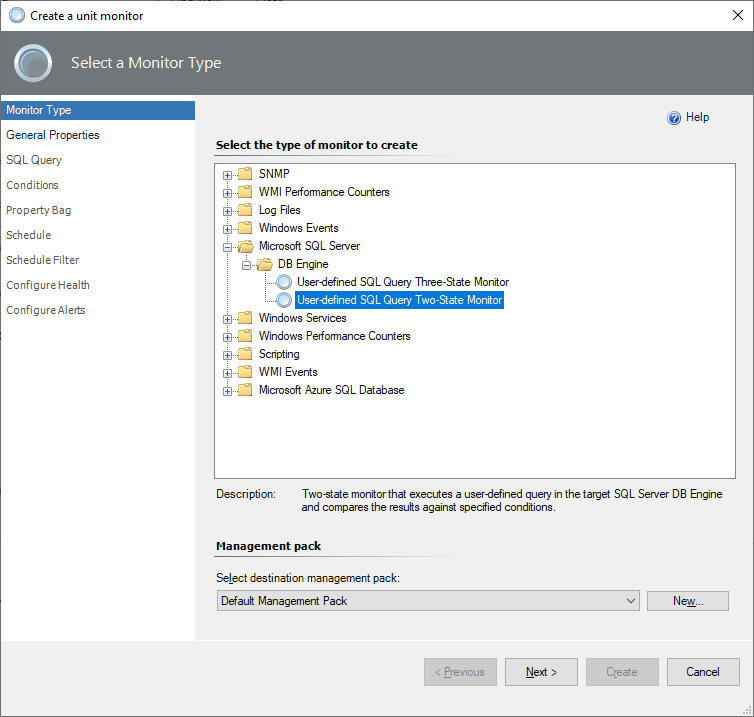
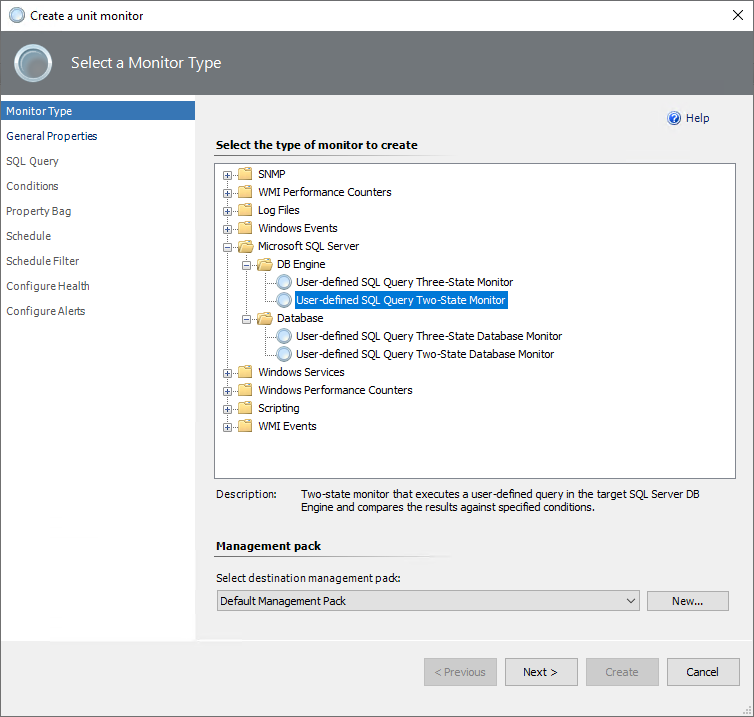
New article in the SQL Server custom monitoring section about database-targeted monitors

diff --git a/SystemCenterDocs/scom/sql-server-management-pack-custom-database-monitor.md b/SystemCenterDocs/scom/sql-server-management-pack-custom-database-monitor.md
@@ -1,0 +1,308 @@
+---
+title: Custom database query-based monitors in System Center Management Pack for SQL Server
+description: This article explains how to configure a custom database query monitor in System Center Management Pack for SQL Server.
+manager: evansma
+author: epomortseva
+ms.author: v-fkornilov
+/ms.date: 07/12/2024
+ms.topic: article
+ms.service: system-center
+ms.subservice: operations-manager
+---
+
+# Custom query-based database monitors
+
+If the set of default monitors in System Center Management Pack for SQL Server isn't enough to cover your workflows, you can create a monitor that targets the SQL Server Database for Windows and Linux platforms.
+
+During the monitor creation process, you use *conditions* to define how the monitor will determine the state after it receives query results. The approach for creating query-based monitors is similar to the approach for creating SQL Server policies. If the query result matches the condition, the monitor state is healthy. If the result doesn't match the condition, the monitor is unhealthy and shows an alert.
+
+There are two types of unit monitors based on custom queries that you can create for the SQL Server Database: two-state monitors and three-state monitors. Depending on the sql query, two options are available: cookdown and database context.
+
+> [!NOTE]
+> Since the latest preview version of System Center Management Pack for SQL Server 7.1.0.0, the management pack for the custom monitoring feature is on a separate package installer: *SQLServerMP.CustomMonitoring.msi*. Be sure to import the management pack file *Microsoft.SQLServer.Core.CustomMonitoring.mpb* manually. The import process with the update option is not supported.
+
+## Custom cookdown query-based monitors targeting the SQL Server Database
+
+The Cookdown type allows you to retrieve data from multiple databases using a single query.
+
+### Two-state custom database monitor based on cookdown query
+
+To create a two-state custom query-based monitor, perform the following steps:
+
+1. In the System Center Operations Manager console, go to **Authoring** > **Management Pack Objects**. Right-click **Monitors**, select **Create a Monitor**, and then select **Unit Monitor**.
+
+    ![Screenshot of selections for creating a two-state unit monitor.](./media/sql-server-management-pack/sql-creating-unit-monitor.png)
+
+2. At the **Monitor Type** step, select **Microsoft SQL Server** > **Database** > **User-defined SQL Query Two-State Database Monitor**.
+
+3. From the **Select destination management pack** dropdown list, select a management pack that you want to use, or select **New** to create a new one. Then select **Next**.
+
+    ![Screenshot of selecting a monitor type.](./media/sql-server-custom-monitoring-management-pack/sql-selecting-database-monitor-type.png)
+
+4. At the **General Properties** step, enter the monitor name and an optional description. Make your selections for **Monitor target** and **Parent monitor**. If you want the monitor to be enabled by default, select the **Monitor is enabled** checkbox. Then select **Next**.
+
+    ![Screenshot of selecting a monitor name and description.](./media/sql-server-custom-monitoring-management-pack/sql-custom-database-monitor-name-and-description-.png)
+
+5. At the **Monitor Kind** select **Cookdown** and enter **Database name selector** using the column number or column name.
+
+    The database name selector is a selector that parses the database name from the result set of a sql query. Setting the selector helps to identify the database from the result set to retrieve the data.
+
+   ![Screenshot of selecting a database monitor type](./media/sql-server-custom-monitoring-management-pack/sql-custom-database-monitor-cookdown.png)
+
+6. At the **SQL Query** step, enter the database name, query text, and timeouts (in seconds). The default database is **master**.
+
+    The Database name field specifies the database that will be used to execute the SQL query from this step.
+
+    The screenshot shows an example of using cookdown with a SQL query to [msdb.backupset](./sql/relational-databases/system-tables/backupset-transact-sql). This table contains information about all database backups on the server.
+
+    ![Screenshot that shows a target database name and SQL query.](./media/sql-server-custom-monitoring-management-pack/sql-custom-database-monitor-sql-query-cookdown.png)
+
+7. At the **Conditions** step, add one or more conditions to verify query results.
+
+   Condition supports two modes of evaluation:
+
+   - **ANY** - if any of the conditions are violated, the monitor switches to an unhealthy state.
+  
+   - **ALL** - if all the conditions are violated, the monitor switches to an unhealthy state.
+
+    To add a new condition, select **Add**, and then select **Scalar Value**.
+
+      Checks the scalar value in the specified cell of the result set. Only equal comparison is available at this moment. If you need complex logic, you can cover that with the query.
+
+    ![Screenshot that shows adding new conditions.](./media/sql-server-custom-monitoring-management-pack/sql-custom-database-monitor-cookdown-condition.png)
+
+    When you add a condition, you must specify **Friendly name** and **Configuration** details for a specific check to be performed.
+
+    You can use a scalar value with two options:
+
+    - **Is NULL** is a true\false verification option. If the value is false, the monitor is unhealthy. Otherwise, the monitor is healthy.
+    - Use **Equal to** to insert the specific value. If the result of the query matches the number value, the monitor is healthy. Otherwise, the monitor is unhealthy.
+
+    ![Screenshot that shows scalar values.](./media/sql-server-custom-monitoring-management-pack/sql-custom-database-cookdown-editing-scalar-condition.png)
+
+      > [!NOTE]
+      > The **Equal to** option is culture-independent (invariant) for a single value only and can't parse a range of values. Example of use: *3.14*, *2023-05-25*, or an arbitrary text.
+
+    You can make more than one condition. If you want to add, edit, or remove a condition, select the condition and use the appropriate button.
+
+    ![Screenshot that shows filled condition.](./media/sql-server-custom-monitoring-management-pack/sql-custom-database-monitor-cookdown-filled-condition.png)
+
+    After you finish setting all the required conditions, select **Next**.
+
+8. At the **Property Bag** step, add one or more conditions to parse the sql query result into a property bag to add properties to the alert context. This step can be skipped if the default alert context is sufficient for display.
+
+    ![Screenshot of configuring property bag.](./media/sql-server-custom-monitoring-management-pack/sql-custom-database-monitor-property-bag.png)
+
+    To add a new condition, select **Add**, and then select **Scalar Value**. When you add a condition, you must specify **Friendly name** and **Configuration** details for a specific check to be performed.
+
+    ![Screenshot of property bag condition.](./media/sql-server-custom-monitoring-management-pack/sql-custom-database-cookdown-monitor-property-bag-condition.png)
+
+    After you finish setting all the required conditions, select **Next**.
+
+9. At the **Schedule** step, configure a query execution schedule and synchronization time.
+
+    ![Screenshot of configuring a schedule.](./media/sql-server-custom-monitoring-management-pack/sql-custom-database-monitor-schedule.png)
+
+10. At the **Schedule Filter** step, select the schedule filtering mode with the following options:
+
+    - **Always process data**
+
+      This is the regular mode, in which the monitor processes the data all the time. This mode doesn't support the time range schedule and excludes day options.
+
+    - **Only process data during the specified time**
+  
+      In this mode, you schedule monitoring by selecting a date and time range during the week.
+
+    - **Process data except during the specified time**
+
+      In this mode, you exclude days so that the monitor doesn't track the specified time periods. You can exclude it temporarily by using the **Exclude days** button. You can exclude it permanently by using the time range schedule.
+
+    ![Screenshot of schedule filter creation in custom monitors.](./media/sql-server-custom-monitoring-management-pack/sql-custom-database-monitor-schedule-filter.png)
+
+    To specify the time range for both **Only process data during the specified time** and **Process data except during the specified time** modes, use the **Add** button and select the days and times.
+
+    ![Screenshot of selecting a time range for a monitor.](./media/sql-server-custom-monitoring-management-pack/sql-custom-database-monitor-select-time-range-in-filter.png)
+
+    To exclude some days from the schedule, use the **Exclude days** button and choose the date range by using the **Start** and **End** fields. Complete the description, if applicable.
+
+    ![Screenshot of the button for excluding days in schedule filter creation.](./media/sql-server-management-pack/exclude-days-in-filter.png)
+
+    You can use both options to exclude time ranges and days at the same time.
+
+    ![Screenshot that shows using both schedule filtering options.](./media/sql-server-custom-monitoring-management-pack/sql-custom-database-monitor-schedule-filter-with-filled-options.png)
+
+11. At the **Configure Health** step, select the health state that the monitor should generate. Change the **Operational State** information if needed.
+
+    ![Screenshot of configuring health.](./media/sql-server-custom-monitoring-management-pack/sql-custom-database-monitor-configure-health.png)  
+
+12. At the **Configure Alerts** step, enable the generating of alerts and edit the **Alert properties** area if needed.
+
+    If you need to activate alerts for the monitor, select the **Generate alerts for this monitor** checkbox, and set up an alert name and description to be shown when conditions fail. Change priority and severity, and resolve the alert mode.
+
+    Use the `$Data/Context/Property[@Name=’Message’]$` placeholder to show the list of failed conditions in the alert description.
+
+    When you're finished configuring alert properties, select **Create**.
+
+    ![Screenshot of editing alerts.](./media/sql-server-custom-monitoring-management-pack/sql-custom-database-monitor-editing-alerts.png)
+
+> [!TIP]
+> By default, a custom query-based monitor works for all SQL Server databases. To avoid alert storming you need to override the monitor target only to a specific instance of the SQL Server. To do that, in the monitor's override properties set the **Enabled = False** for the **MSSQL on Windows: Database class**, and set the **Enabled = True** for the **specific SQL Server Database** object.
+
+## Custom database context query-based monitors targeting the SQL Server Database
+
+The database context monitor type will execute the specified query on all databases in the target manner. To exclude a specific database from this monitor, use overrides after creation.
+
+This monitor type can increase performance.
+
+### Two-state custom database monitor based on database context query
+
+To create a two-state custom query-based monitor, perform the following steps:
+
+1. In the System Center Operations Manager console, go to **Authoring** > **Management Pack Objects**. Right-click **Monitors**, select **Create a Monitor**, and then select **Unit Monitor**.
+
+    ![Screenshot of selections for creating a two-state unit monitor.](./media/sql-server-management-pack/sql-creating-unit-monitor.png)
+
+2. At the **Monitor Type** step, select **Microsoft SQL Server** > **Database** > **User-defined SQL Query Two-State DatabaseMonitor**.
+
+3. From the **Select destination management pack** dropdown list, select a management pack that you want to use, or select **New** to create a new one. Then select **Next**.
+
+    ![Screenshot of selecting a monitor type.](./media/sql-server-custom-monitoring-management-pack/sql-selecting-database-monitor-type.png)
+
+4. At the **General Properties** step, enter the monitor name and an optional description. Make your selections for **Monitor target** and **Parent monitor**. If you want the monitor to be enabled by default, select the **Monitor is enabled** checkbox. Then select **Next**.
+
+    ![Screenshot of selecting a monitor name and description.](./media/sql-server-custom-monitoring-management-pack/sql-custom-database-monitor-name-and-description-.png)
+
+5. At the **Monitor Kind** select **Database context**.
+
+    The database context monitor type will perform the sql query to all databases in turn, so the database name selector can be omitted.
+
+   ![Screenshot of selecting a database monitor type](./media/sql-server-custom-monitoring-management-pack/sql-custom-database-monitor-context.png)
+
+6. At the **SQL Query** step, enter query text and timeouts (in seconds). The default database is **master**.
+
+    The database context will be executed on all databases, so the field for specifying only one database to query is locked.
+
+    ![Screenshot that shows a target database name and SQL query.](./media/sql-server-custom-monitoring-management-pack/sql-custom-database-monitor-context-sql-query.png)
+
+    The screenshot shows an example of using database context with a SQL query to [sys.database_files](./sql/relational-databases/system-catalog-views/sys-database-files-transact-sql). This table exists in each database, so the database context monitor type will connect to each database and retrieve data in a targeted manner.
+
+7. At the **Conditions** step, add one or more conditions to verify query results.
+
+   Condition supports two modes of evaluation:
+
+   - **ANY** - if any of the conditions are violated, the monitor switches to an unhealthy state.
+  
+   - **ALL** - if all the conditions are violated, the monitor switches to an unhealthy state.
+
+    To add a new condition, select **Add**, and then select one of the available conditions:
+
+    - **Empty Result Set**
+
+      Checks if the specified result set that the query returned is empty.
+
+    - **Not Empty Result Set**
+
+      Checks if the specified result set that the query returned isn't empty.
+
+    - **Scalar Value**
+
+      Checks the scalar value in the specified cell of the result set. Only equal comparison is available at this moment. If you need complex logic, you can cover that with the query.
+
+    ![Screenshot that shows adding new conditions.](./media/sql-server-custom-monitoring-management-pack/sql-custom-database-monitor-context-conditions.png)
+
+    When you add a condition, you must specify **Friendly name** and **Configuration** details for a specific check to be performed.
+
+    You can use a scalar value with two options:
+
+    - **Is NULL** is a true\false verification option. If the value is false, the monitor is unhealthy. Otherwise, the monitor is healthy.
+    - Use **Equal to** to insert the specific value. If the result of the query matches the number value, the monitor is healthy. Otherwise, the monitor is unhealthy.
+
+    ![Screenshot that shows scalar values.](./media/sql-server-custom-monitoring-management-pack/sql-custom-database-context-editing-scalar-condition.png)
+
+      > [!NOTE]
+      > The **Equal to** option is culture-independent (invariant) for a single value only and can't parse a range of values. Example of use: *3.14*, *2023-05-25*, or an arbitrary text.
+
+    You can make more than one condition. If you want to add, edit, or remove a condition, select the condition and use the appropriate button.
+
+    ![Screenshot that shows multiple conditions.](./media/sql-server-custom-monitoring-management-pack/sql-custom-database-monitor-context-multiple-conditions.png)
+
+    After you finish setting all the required conditions, select **Next**.
+
+8. At the **Property Bag** step, add one or more conditions to parse the sql query result into a property bag to add properties to the alert context. This step can be skipped if the default alert context is sufficient for display.
+
+    ![Screenshot of configuring property bag.](./media/sql-server-custom-monitoring-management-pack/sql-custom-database-monitor-property-bag.png)
+
+    To add a new condition, select **Add**, and then select **Scalar Value**. When you add a condition, you must specify **Friendly name** and **Configuration** details for a specific check to be performed.
+
+    ![Screenshot of property bag condition.](./media/sql-server-custom-monitoring-management-pack/sql-custom-database-monitor-property-bag-condition-database-context.png)
+
+    You can make more than one condition for property bag. If you want to add, edit, or remove a condition, select the condition and use the appropriate button.
+
+    ![Screenshot of multiple property bag conditions](./media/sql-server-custom-monitoring-management-pack/sql-custom-database-monitor-context-multiple-property-bag.png)
+
+    After you finish setting all the required conditions, select **Next**.
+
+9. At the **Schedule** step, configure a query execution schedule and synchronization time.
+
+    ![Screenshot of configuring a schedule.](./media/sql-server-custom-monitoring-management-pack/sql-custom-database-monitor-schedule.png)
+
+10. At the **Schedule Filter** step, select the schedule filtering mode with the following options:
+
+    - **Always process data**
+
+      This is the regular mode, in which the monitor processes the data all the time. This mode doesn't support the time range schedule and excludes day options.
+
+    - **Only process data during the specified time**
+  
+      In this mode, you schedule monitoring by selecting a date and time range during the week.
+
+    - **Process data except during the specified time**
+
+      In this mode, you exclude days so that the monitor doesn't track the specified time periods. You can exclude it temporarily by using the **Exclude days** button. You can exclude it permanently by using the time range schedule.
+
+   ![Screenshot of schedule filter creation in custom monitors.](./media/sql-server-custom-monitoring-management-pack/sql-custom-database-monitor-schedule-filter.png)
+
+   To specify the time range for both **Only process data during the specified time** and **Process data except during the specified time** modes, use the **Add** button and select the days and times.
+
+   ![Screenshot of selecting a time range for a monitor.](./media/sql-server-custom-monitoring-management-pack/sql-custom-database-monitor-select-time-range-in-filter.png)
+
+   To exclude some days from the schedule, use the **Exclude days** button and choose the date range by using the **Start** and **End** fields. Complete the description, if applicable.
+
+   ![Screenshot of the button for excluding days in schedule filter creation.](./media/sql-server-management-pack/exclude-days-in-filter.png)
+
+   You can use both options to exclude time ranges and days at the same time.
+
+   ![Screenshot that shows using both schedule filtering options.](./media/sql-server-custom-monitoring-management-pack/sql-custom-database-monitor-schedule-filter-with-filled-options.png)
+
+11. At the **Configure Health** step, select the health state that the monitor should generate. Change the **Operational State** information if needed.
+
+    ![Screenshot of configuring health.](./media/sql-server-custom-monitoring-management-pack/sql-custom-database-monitor-configure-health.png)  
+
+12. At the **Configure Alerts** step, enable the generating of alerts and edit the **Alert properties** area if needed.
+
+    If you need to activate alerts for the monitor, select the **Generate alerts for this monitor** checkbox, and set up an alert name and description to be shown when conditions fail. Change priority and severity, and resolve the alert mode.
+
+    Use the `$Data/Context/Property[@Name=’Message’]$` placeholder to show the list of failed conditions in the alert description.
+
+    When you're finished configuring alert properties, select **Create**.
+
+    ![Screenshot of editing alerts.](./media/sql-server-custom-monitoring-management-pack/sql-custom-database-monitor-editing-alerts.png)
+
+> [!TIP]
+> By default, a custom query-based monitor works for all SQL Server databases. To avoid alert storming you need to override the monitor target only to a specific instance of the SQL Server. To do that, in the monitor's override properties set the **Enabled = False** for the **MSSQL on Windows: Database class**, and set the **Enabled = True** for the **specific SQL Server Database** object.
+
+## Three-state monitor
+
+Creating a three-state custom query-based monitor is similar to creating a two-state monitor. The main difference is that you select **User-defined SQL Query Three-State Monitor** at the **Monitor Type** step. Then, you can specify details for **Warning Conditions** and **Critical Conditions** steps.
+
+A critical state has a higher priority than a warning in three-state monitors, and it's verified first. If one or more critical conditions fail, the monitor switches to the critical state, and warning conditions aren't verified.
+
+![Screenshot that shows a warning and a critical condition for a three-state monitor.](./media/sql-server-custom-monitoring-management-pack/sql-custom-database-monitor-warning-and-critical-conditions.png)
+
+When you use the **Equal to** condition in a three-state monitor:
+
+- Choose a value.
+- Use conditions with unhealthy states that will be determined for the desired monitor's operational state.
+- Keep in mind the alert priority: the critical state is verified first.
+
+Condition types are different for cookdown and the database context monitor type. For cookdown, only one option is available: scalar value. For the database context, you can use all kinds of conditions: empty result set, not empty result set, and scalar value.

diff --git a/SystemCenterDocs/scom/sql-server-management-pack-custom-database-engine-monitor.md b/SystemCenterDocs/scom/sql-server-management-pack-custom-database-engine-monitor.md
@@ -1,28 +1,30 @@
 ---
 ms.assetid: dc45fd44-50ff-47af-bfdd-5407695c6cae
-title: Custom query-based monitors in System Center Management Pack for SQL Server
-description: This article explains how to configure a custom query monitor in System Center Management Pack for SQL Server.
+title: Custom database engine query-based monitors in System Center Management Pack for SQL Server
+description: This article explains how to configure a custom database engine query monitor in System Center Management Pack for SQL Server.
 manager: evansma
 author: epomortseva
 ms.author: v-fkornilov
-ms.date: 05/02/2024
+/ms.date: 07/12/2024
 ms.topic: article
 ms.service: system-center
 ms.subservice: operations-manager
 ---
 
-# Custom query-based monitors
+# Custom query-based database engine monitors
 
 If the set of default monitors in System Center Management Pack for SQL Server isn't enough to cover your workflows, you can create a monitor that targets the SQL Server Database Engine for Windows and Linux platforms.
 
 During the monitor creation process, you use *conditions* to define how the monitor will determine the state after it receives query results. The approach for creating query-based monitors is similar to the approach for creating SQL Server policies. If the query result matches the condition, the monitor state is healthy. If the result doesn't match the condition, the monitor is unhealthy and shows an alert.
 
-There are two types of unit monitors based on custom queries that you can create: two-state monitors and three-state monitors. This article shows how to create both types and includes an example of a three-state monitor condition.
+There are two types of unit monitors based on custom queries that you can create for the SQL Server Database Engine: two-state monitors and three-state monitors.
 
 > [!NOTE]
 > Since the latest preview version of System Center Management Pack for SQL Server 7.1.0.0, the management pack for the custom monitoring feature is on a separate package installer: *SQLServerMP.CustomMonitoring.msi*. Be sure to import the management pack file *Microsoft.SQLServer.Core.CustomMonitoring.mpb* manually. The import process with the update option is not supported.
 
-## Two-state monitor
+For detailed examples of how to use custom monitors targeting SQL Server Database Engine, refer to [Examples of usage](sql-server-management-pack-custom-monitoring-examples.md).
+
+## Two-state custom database engine monitor
 
 To create a two-state custom query-based monitor, perform the following steps:
 
@@ -80,7 +82,7 @@ To create a two-state custom query-based monitor, perform the following steps:
       > [!NOTE]
       > The **Equal to** option is culture-independent (invariant) for a single value only and can't parse a range of values. Example of use: *3.14*, *2023-05-25*, or an arbitrary text.
 
-    You can make more than one condition by using the **OR** and **AND** operators. If you want to add, edit, or remove a condition, select the condition and use the appropriate button.
+    You can make more than one condition. If you want to add, edit, or remove a condition, select the condition and use the appropriate button.
 
     ![Screenshot that shows multiple conditions.](./media/sql-server-management-pack/sql-unit-monitor-multiple-conditions.png)
 
@@ -160,7 +162,3 @@ When you use the **Equal to** condition in a three-state monitor:
 - Choose a value.
 - Use conditions with unhealthy states that will be determined for the desired monitor's operational state.
 - Keep in mind the alert priority: the critical state is verified first.
-
-### Example
-
-For detailed examples of how to use custom monitors, refer to [Examples of usage](sql-server-management-pack-custom-monitoring-examples.md).
